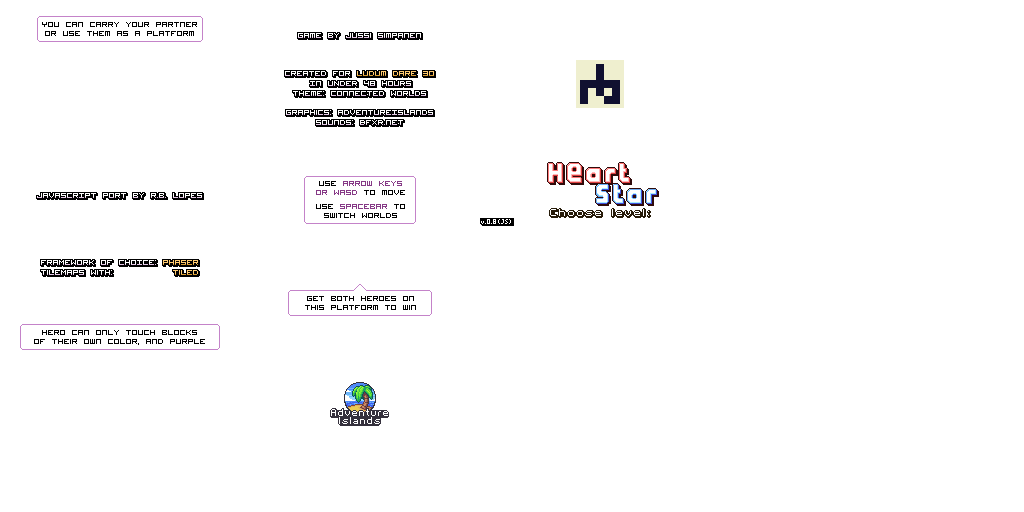
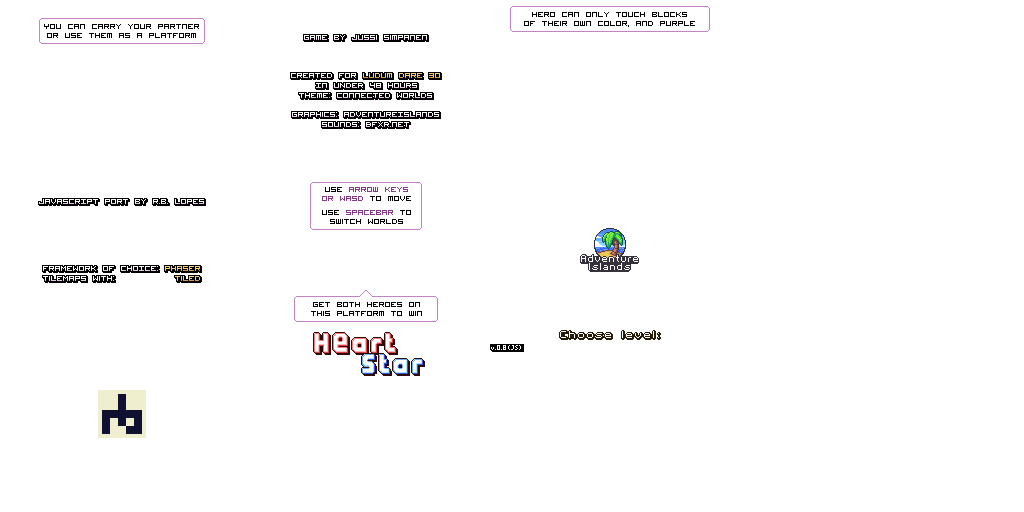
Labels texture atlas must have a padding

diff --git a/src/scripts/app/data/atlases/labels.js b/src/scripts/app/data/atlases/labels.js
@@ -6,52 +6,52 @@ export default {
   },
   frames: {
     'label-version': {
-      frame: { x: 480, y: 218, w: 34, h: 8 },
+      frame: { x: 490, y: 344, w: 34, h: 8 },
       spriteSourceSize: { x: 0, y: 0, w: 34, h: 8 },
       sourceSize: { w: 34, h: 8 }
     },
     'label-level-select': {
-      frame: { x: 480, y: 208, w: 240, h: 10 },
+      frame: { x: 490, y: 330, w: 240, h: 10 },
       spriteSourceSize: { x: 0, y: 0, w: 240, h: 10 },
       sourceSize: { w: 240, h: 10 }
     },
     'label-title': {
-      frame: { x: 480, y: 160, w: 240, h: 48 },
+      frame: { x: 246, y: 330, w: 240, h: 48 },
       spriteSourceSize: { x: 0, y: 0, w: 240, h: 48 },
       sourceSize: { w: 240, h: 48 }
     },
     'logo-rb': {
-      frame: { x: 480, y: 0, w: 240, h: 160 },
+      frame: { x: 2, y: 330, w: 240, h: 160 },
       spriteSourceSize: { x: 0, y: 0, w: 240, h: 160 },
       sourceSize: { w: 240, h: 160 }
     },
     'logo-adventure-islands': {
-      frame: { x: 240, y: 320, w: 240, h: 160 },
+      frame: { x: 490, y: 166, w: 240, h: 160 },
       spriteSourceSize: { x: 0, y: 0, w: 240, h: 160 },
       sourceSize: { w: 240, h: 160 }
     },
     'label-hero-blocks': {
-      frame: { x: 0, y: 320, w: 240, h: 160 },
+      frame: { x: 490, y: 2, w: 240, h: 160 },
       spriteSourceSize: { x: 0, y: 0, w: 240, h: 160 },
       sourceSize: { w: 240, h: 160 }
     },
     'label-game-primer': {
-      frame: { x: 240, y: 160, w: 240, h: 160 },
+      frame: { x: 246, y: 166, w: 240, h: 160 },
       spriteSourceSize: { x: 0, y: 0, w: 240, h: 160 },
       sourceSize: { w: 240, h: 160 }
     },
     'label-credits-rb': {
-      frame: { x: 0, y: 160, w: 240, h: 160 },
+      frame: { x: 2, y: 166, w: 240, h: 160 },
       spriteSourceSize: { x: 0, y: 0, w: 240, h: 160 },
       sourceSize: { w: 240, h: 160 }
     },
     'label-credits-ai': {
-      frame: { x: 240, y: 0, w: 240, h: 160 },
+      frame: { x: 246, y: 2, w: 240, h: 160 },
       spriteSourceSize: { x: 0, y: 0, w: 240, h: 160 },
       sourceSize: { w: 240, h: 160 }
     },
     'label-carrying-partners': {
-      frame: { x: 0, y: 0, w: 240, h: 160 },
+      frame: { x: 2, y: 2, w: 240, h: 160 },
       spriteSourceSize: { x: 0, y: 0, w: 240, h: 160 },
       sourceSize: { w: 240, h: 160 }
     }
